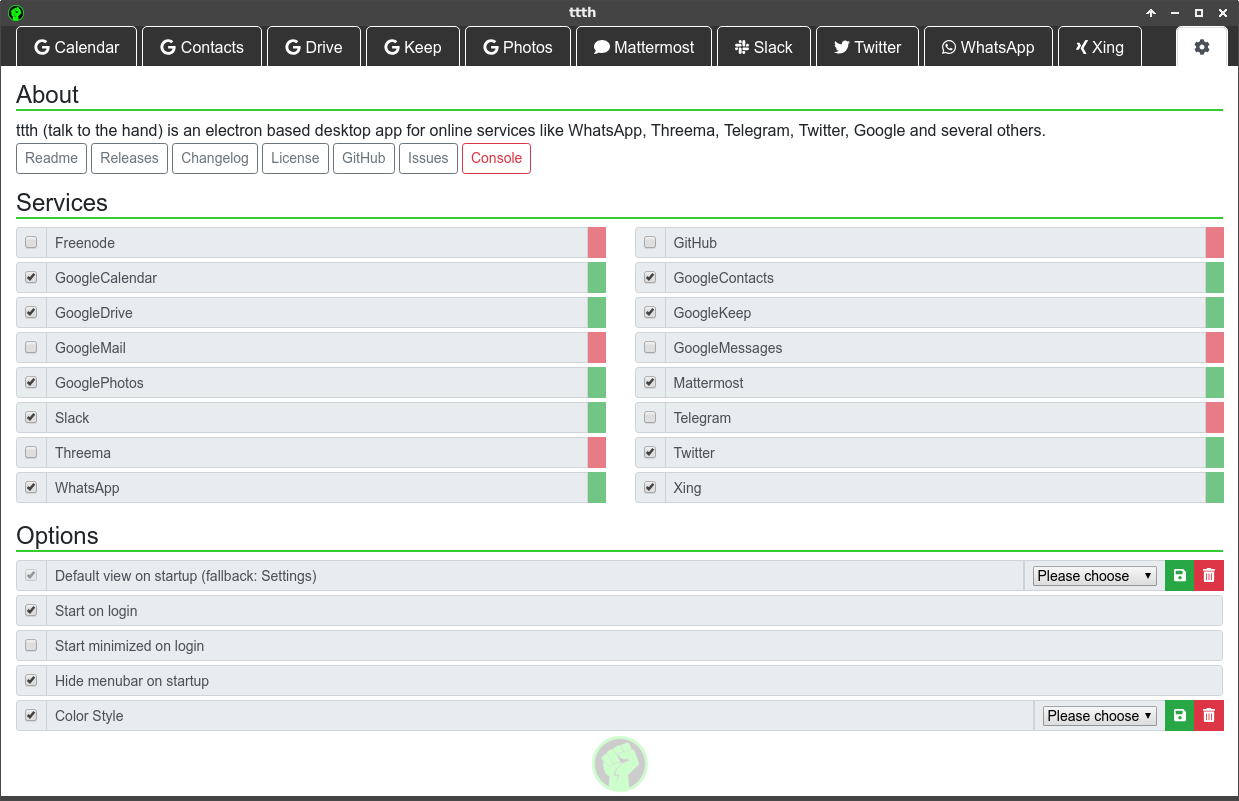
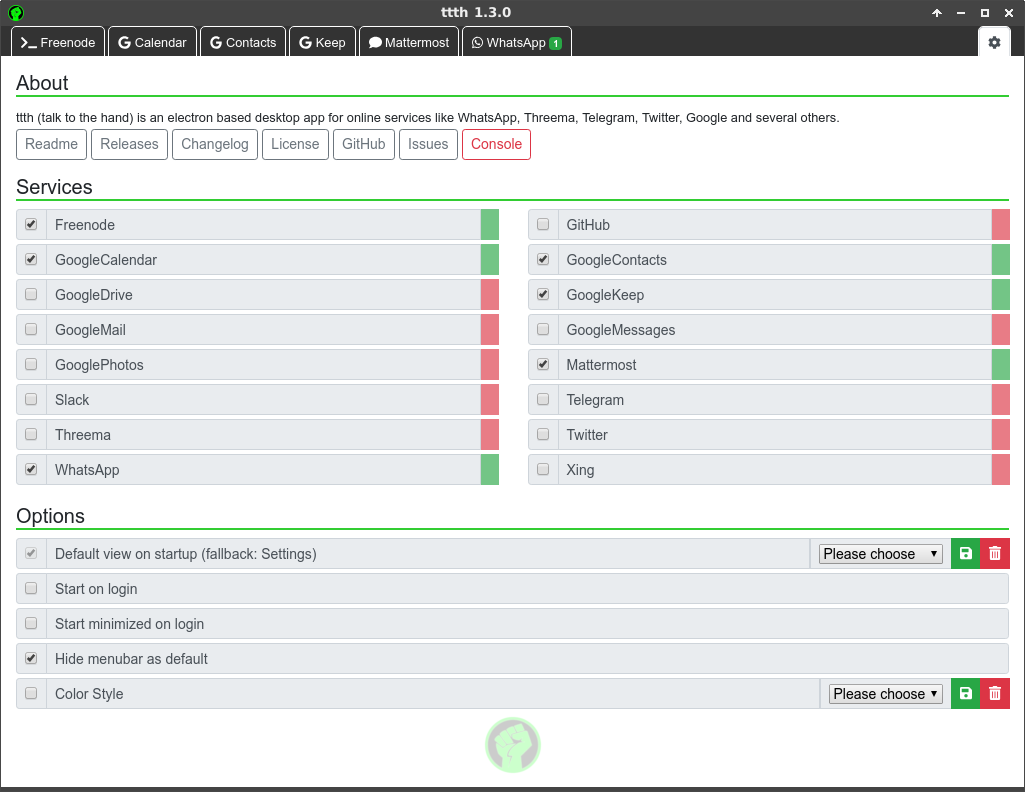
20190603 - Updated docs etc

Changed region(s): [[0.0, 0.0, 1.0, 1.0], [0.4683, 0.9091, 0.5307, 1.0]]

diff --git a/CHANGELOG.md b/CHANGELOG.md
@@ -3,7 +3,7 @@
 # ttth
 ## changelog
 
-### ttth 1.3.0 (2019xxyy)
+### ttth 1.3.0 (20190603)
 ####  ```Added```
 * Services: Added new service 'Xing'. See [#26](https://github.com/yafp/ttth/issues/26)
 * Services: Added new service 'Google Drive'. See [#33](https://github.com/yafp/ttth/issues/33)
@@ -19,9 +19,11 @@
 * UI: Added placeholder text to input fields of electron-prompts. See [#28](https://github.com/yafp/ttth/issues/28)
 * UI: Remove tab text from Settings tab. Just show the icon. See [#29](https://github.com/yafp/ttth/issues/29)
 * UI: Window title now features the name of the frontmost service. See [#41](https://github.com/yafp/ttth/issues/41)
+* UI: Shrinked tabs to save space. See See [#45](https://github.com/yafp/ttth/issues/45)
 * Menu: Minimize is now CTRL + M (Window -> Minimize). See [#11](https://github.com/yafp/ttth/issues/11)
 * Menu: Maximize is now CTRL + K (Window -> Maximize). See [#11](https://github.com/yafp/ttth/issues/11)
 * Update search: manually searching for updates shows now always the result. See [#36](https://github.com/yafp/ttth/issues/36)
+* Electron: Update from 4.1.4 to 4.2.2.
 
 #### ```Removed```
 * UI: Removed transparency / opacity behaviour. See [#34](https://github.com/yafp/ttth/issues/34)
@@ -31,7 +33,8 @@
 * UI: Reloading resetted the application title. [#44](https://github.com/yafp/ttth/issues/44)
 * Services: Slack was loading the wrong url - which resulted in a white screen. See [#35](https://github.com/yafp/ttth/issues/35)
 * Services: Mattermost was not setting the correct url to the webview after enabling it. See [#38](https://github.com/yafp/ttth/issues/38)
-* Services: When a user tried to enable Mattermost or Slack and cancelled the prompt, the service status botton was still green. Is now fixed. See [#42](https://github.com/yafp/ttth/issues/42)
+* Services: When a user tried to enable Mattermost or Slack and cancelled the prompt, the service status button was still green. Is now fixed. See [#42](https://github.com/yafp/ttth/issues/42)
+* Services: Unread Message count for Whatsapp was broken. See [#46](https://github.com/yafp/ttth/issues/46)
 
 
 ### ttth 1.2.0 (20190524)

diff --git a/TODO.md b/TODO.md
@@ -13,15 +13,17 @@
   * skype?
 * FontAwesome
   * Slim it down (size-wise) - see: https://blog.webjeda.com/optimize-fontawesome/ - maybe using: IcoMoon
+  * Integration via webpack: https://discuss.atom.io/t/including-font-awesome-in-electron-build/40090
+  * as dependecy: https://www.npmjs.com/package/font-awesome looks outdated
 * Builds:
   * Linux: pacman?
 * Context Menu (in WebView)
   * v1: electron-context-menu: https://github.com/sindresorhus/electron-context-menu
   * v2: electron-editor-context-menu: https://www.npmjs.com/package/electron-editor-context-menu
-* Dialogs
-  * check 'dialogs' vs 'electron-prompt'
-* Consider using latest electron version (currently: 4.x vs available: 5.x)
+* Settings:
+  * check out https://github.com/nathanbuchar/electron-settings
 * Updater
+  * official way for win & macos: https://electronjs.org/docs/tutorial/updates
   * 'nuts' for pushing out updates to electron applications. Based on Github Releases
   * 'electron-release-server'
   * 'squirrel-updates-server'
@@ -29,7 +31,8 @@
   * 'Electron-gh-releases'
 * Package: 'temp' for handling temporary files
 * Package: 'electron-dl' for handling downloads
-* matcha - to benchmark the code
+* Code-Sign: for windows and macOS - required for auto-updates: https://electronjs.org/docs/tutorial/code-signing
+* Logging to external file using electron-log: https://www.npmjs.com/package/electron-log
 
 ## Reminder: Source for unread message functions
 * Rambox
